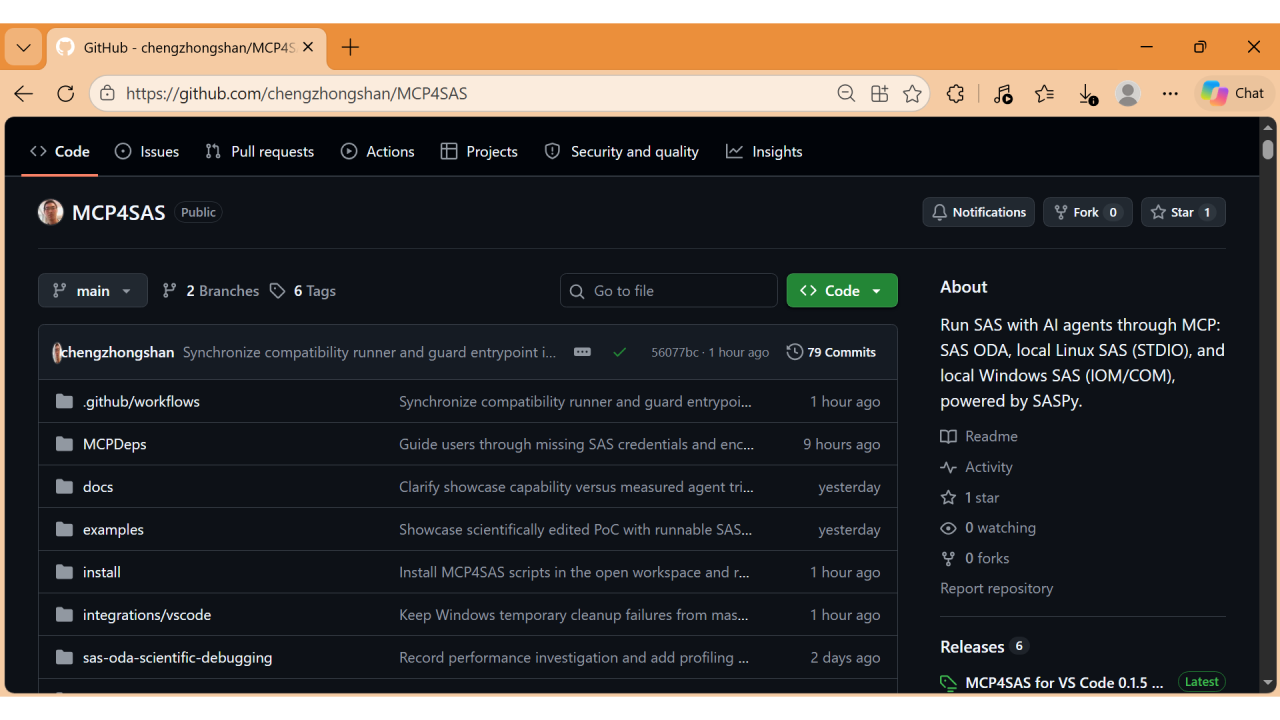
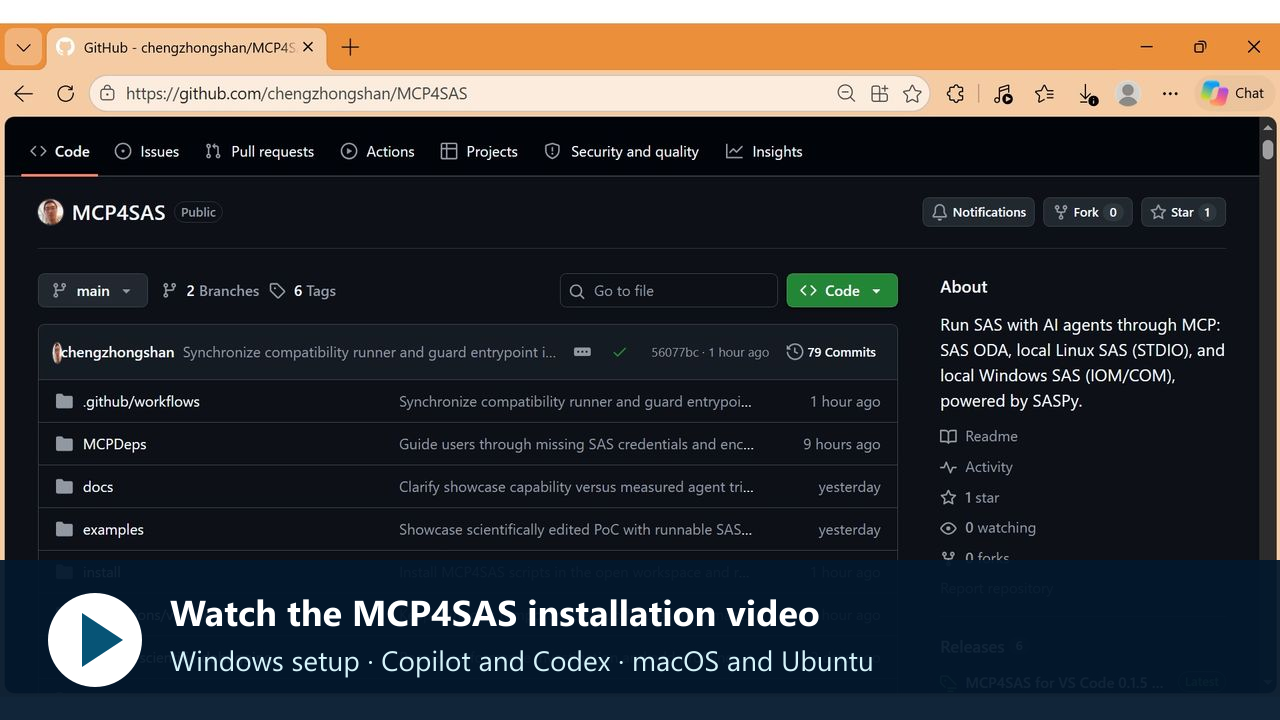
Put playable installation video first on the repository homepage

diff --git a/README.md b/README.md
@@ -5,19 +5,6 @@ for Academics (SAS ODA), local Linux SAS, and local Windows SAS** through SASPy.
 
 [Quick start](#quick-start) · [Scientific showcases](#scientific-proof-of-concept-and-runnable-examples) · [Installation](#manual-installation) · [Local SAS home directories](docs/LOCAL_SAS_HOME.md)
 
-## Watch the installation video
-
-[**Watch in your browser - Windows, macOS and Ubuntu**](https://chengzhongshan.github.io/MCP4SAS/)
-
-[![Watch the MCP4SAS installation walkthrough](docs/installation/preview.png)](https://chengzhongshan.github.io/MCP4SAS/)
-
-Follow the Windows setup, then watch **GitHub Copilot and Codex each run SAS**.
-The 9-minute 54-second tutorial also covers SAS encryption files, automatic
-Python/SASPy detection, company-network access on TCP 8591, and the Mac/Linux
-installation commands. The homepage cover appears before playback, and the
-smaller captions are included in the video.
-
-[Download MP4](https://github.com/chengzhongshan/MCP4SAS/releases/download/vscode-v0.1.5/MCP4SAS_Install_Clean_Captions_20261114.mp4) | [Watch offline](https://github.com/chengzhongshan/MCP4SAS/releases/download/vscode-v0.1.5/MCP4SAS_Installation_Offline_20261114.zip) | [Written setup guide](integrations/vscode/README.md)
 
 For slow submissions or file transfers, see the
 [performance debugging guide](docs/PERFORMANCE_DEBUGGING.md). It records the
